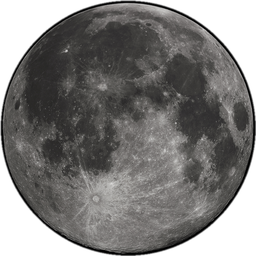
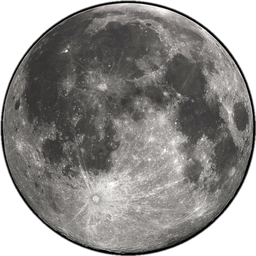
Astros: tamaños con realismo, Saturno con sus anillos, más estrellas
TAMAÑOS. Los cuerpos medían casi todos igual. Ahora el radio sigue una
escala logarítmica del radio real: de Plutón (1.188 km) al Sol (696.000)
hay 586 veces de diferencia, imposible a escala directa, pero el ORDEN sí
es el de verdad — Júpiter mayor que la Tierra, la Tierra mayor que Marte.

SATURNO. Su foto lleva los anillos, que ocupan el ancho mientras el cuerpo
es un tercio del alto: al encajarlo como los demás salía diminuto. Ahora se
dibuja en un recuadro 2,8× mayor, así el CUERPO mide como el resto y los
anillos sobresalen del disco, que es lo correcto. De paso se quitó el
recorte circular: todas las texturas traen alfa, y recortar era justo lo
que mutilaba a Saturno.

TIERRA Y LUNA. La Tierra tenía fondo negro (la creé desde un JPG) — ahora
recortada en círculo con borde suave y +45% de saturación. La Luna, +28%
de brillo. Bajados Urano, Venus y Plutón, que venían pálidos de más.

MÁS ESTRELLAS. Con `denseStars` cada figura se rodea de las estrellas
REALES de su zona (925 del catálogo Hipparcos a menos de 22° de la
eclíptica), sin unirlas: la figura se sigue leyendo y el sector deja de
verse vacío. No se inventan líneas — eso es lo que no se puede hacer a ojo.

Franjas: 0.069 por defecto, el valor elegido. La banda ancha queda como
opción, apagada.

natal-chart.js sube a ?v=22.

diff --git a/js/natal-chart.js b/js/natal-chart.js
@@ -136,6 +136,23 @@
     Jupiter:'Jupiter', Saturn:'Saturno', Uranus:'Urano', Neptune:'Neptuno',
     Pluto:'Pluton', Earth:'Tierra'
   };
+  // 2026-08-06 (pedido del usuario: "que tenga algo de realismo, aunque sea
+  // lo mínimo"): el radio real va de 1.188 km (Plutón) a 696.000 (Sol) —
+  // 586 veces. A escala directa el Sol tapaba la rueda y Plutón sería
+  // invisible. Con escala logarítmica el orden es el de verdad —Júpiter
+  // mayor que la Tierra, la Tierra mayor que Marte— dentro de un rango
+  // dibujable. Fracción de `size`.
+  var BODY_R = {
+    Sun:0.0275, Jupiter:0.0228, Saturn:0.0224, Uranus:0.0207, Neptune:0.0207,
+    Earth:0.0179, Venus:0.0178, Mars:0.0166, Mercury:0.0160, Moon:0.0153,
+    Pluto:0.0145
+  };
+  // Saturno se dibuja en un recuadro MAYOR que su disco: en la foto los
+  // anillos ocupan el ancho y el cuerpo solo ~1/3 del alto, así que al
+  // encajarlo como los demás el planeta salía diminuto. Con 2.8 el CUERPO
+  // mide como el resto y los anillos sobresalen, que es lo correcto.
+  var TEX_BOX = { Saturn: 2.8 };
+
   var _tex = {};           // nombre → HTMLImageElement
   var _texBase = '/assets/planets/';
   // Oyentes de "ya cargó una textura". El módulo NO se repinta solo: si lo
@@ -167,13 +184,12 @@
    * Dibuja la textura recortada en círculo. Las fotos vienen sobre fondo
    * negro (no transparente), así que sin el recorte se vería el cuadro.
    */
-  function drawTexturedBody(ctx, x, y, r, img) {
-    ctx.save();
-    ctx.beginPath();
-    ctx.arc(x, y, r, 0, TAU);
-    ctx.clip();
-    ctx.drawImage(img, x - r, y - r, r * 2, r * 2);
-    ctx.restore();
+  function drawTexturedBody(ctx, x, y, r, img, name) {
+    // Las texturas vienen con fondo transparente, así que no hace falta
+    // recortarlas en círculo — y recortar estropeaba a Saturno, cuyos
+    // anillos deben salirse del disco.
+    var box = r * (TEX_BOX[name] || 1);
+    ctx.drawImage(img, x - box, y - box, box * 2, box * 2);
   }
 
   function drawPlanetSphere(ctx, x, y, r, name, useReal) {
@@ -187,7 +203,7 @@
           ctx.fillStyle = g;
           ctx.beginPath(); ctx.arc(x, y, r * 2.1, 0, TAU); ctx.fill();
         }
-        drawTexturedBody(ctx, x, y, r, tx);
+        drawTexturedBody(ctx, x, y, r, tx, name);
         return;
       }
     }
@@ -467,7 +483,7 @@
       // opts.wedgeAlpha ajusta la intensidad de la franja "par"; la impar y
       // la del signo enfocado se derivan de ella para que la relación entre
       // las tres se mantenga al subir o bajar el tono.
-      var wA = (typeof opts.wedgeAlpha === 'number') ? opts.wedgeAlpha : 0.045;
+      var wA = (typeof opts.wedgeAlpha === 'number') ? opts.wedgeAlpha : 0.069;
       var wAodd   = wA / 3;
       var wAfocus = Math.min(wA * 2.2, 0.30);
       for (var fw = 0; fw < 12; fw++) {
@@ -817,6 +833,30 @@
           ctx.lineTo(pb.x, pb.y);
           ctx.stroke();
         }
+        // 2026-08-06 (pedido del usuario: "me gustaría verlas con más
+        // estrellas"): además de la figura, se salpican las estrellas REALES
+        // del entorno tomadas del catálogo Hipparcos (opts.denseStars), sin
+        // unirlas: la figura sigue leyéndose y el sector deja de verse vacío.
+        // No se inventan líneas — eso es justo lo que no se puede hacer a ojo.
+        if (opts.denseStars && chartData.zodiacFigures.extraStars) {
+          var ex = chartData.zodiacFigures.extraStars;
+          for (var xi = 0; xi < ex.length; xi++) {
+            var e = ex[xi];
+            var eLon = ((e[0] - cLon + 540) % 360) - 180;
+            var eLat = e[1] - cLat;
+            if (Math.abs(eLon * kx) > MAX_ARC / 2 + size * 0.012) continue;
+            if (Math.abs(eLat * ky) > MAX_RAD / 2 + size * 0.006) continue;
+            var er = bC + eLat * ky;
+            var epx = cx + rx * er + ux * eLon * kx;
+            var epy = cy + ry * er + uy * eLon * kx;
+            var erad = Math.max(0.5, (5.6 - e[2]) * (size / 1500));
+            ctx.fillStyle = esFoco ? 'rgba(255,250,235,0.55)' : 'rgba(255,250,235,0.3)';
+            ctx.beginPath();
+            ctx.arc(epx, epy, erad, 0, TAU);
+            ctx.fill();
+          }
+        }
+
         // Estrellas: el tamaño sigue la magnitud, como en el cielo
         for (var sj = 0; sj < order.length; sj++) {
           var pp = place(order[sj]);
@@ -1186,9 +1226,11 @@
 
         // Realistic planet sphere (radial gradient + halo + optional rings).
         // Sol/Luna get bigger radii because they're the attention anchors.
-        var sphereR = size * (p.name === 'Sun' ? 0.024
-                            : p.name === 'Moon' ? 0.022
-                            : 0.019);
+        var sphereR = size * (REAL_BODIES && BODY_R[p.name] !== undefined
+                            ? BODY_R[p.name]
+                            : (p.name === 'Sun' ? 0.024
+                             : p.name === 'Moon' ? 0.022
+                             : 0.019));
 
         // 2026-04-29 sign-focus: ruler planet of the focused sign gets a
         // bright outer halo ring before the sphere is drawn — viewer's
@@ -1480,7 +1522,7 @@
       // (Blue Marble). Si aún no cargó, cae al dibujo de siempre.
       var _earthTex = REAL_BODIES ? planetTexture('Earth') : null;
       if (_earthTex) {
-        drawTexturedBody(ctx, cx, cy, earthR, _earthTex);
+        drawTexturedBody(ctx, cx, cy, earthR, _earthTex, 'Earth');
       } else {
 
       // Earth sphere — blue oceans with warm continents

diff --git a/_preview-rueda.html b/_preview-rueda.html
@@ -34,12 +34,13 @@ no toca el pipeline ni genera archivos.</p>
 <div class="controls">
   <label><input type="checkbox" id="wedges" checked> Franjas hasta la Tierra</label>
   <label>Intensidad
-    <input type="range" id="alpha" min="0" max="120" value="28">
+    <input type="range" id="alpha" min="0" max="120" value="69">
     <output id="alphaOut">0.045</output>
   </label>
   <label><input type="checkbox" id="producto"> Ver como sale el PNG del producto</label>
   <label><input type="checkbox" id="ancha"> <b>Banda ancha</b> (tu boceto)</label>
   <label><input type="checkbox" id="reales" checked> <b>Planetas reales</b> (fotos NASA)</label>
+  <label><input type="checkbox" id="densas" checked> <b>Más estrellas</b> (Hipparcos)</label>
   <label>Signo resaltado
     <select id="focus">
       <option value="">— ninguno —</option>
@@ -108,6 +109,7 @@ const focusEl  = document.getElementById('focus');
 const prodEl   = document.getElementById('producto');
 const anchaEl  = document.getElementById('ancha');
 const realesEl = document.getElementById('reales');
+const densasEl = document.getElementById('densas');
 
 // Las constelaciones reales dentro de la banda salen solo si se pasan los
 // catálogos; el renderizador ya sabe proyectarlas (usa sky-map.js para la
@@ -116,10 +118,20 @@ Promise.all([
   libsReady,
   fetch('/data/constellations_zodiac.json').then(r => r.json()),
   fetch('/data/stars_zodiac.json').then(r => r.json()),
-]).then(([, zc, zs]) => {
+  fetch('/data/stars-full.json').then(r => r.json()).catch(() => ({stars:[]})),
+]).then(([, zc, zs, full]) => {
   // Las 12 figuras curadas (las mismas del video), normalizadas por el
   // renderizador para que las doce ocupen lo mismo.
-  CHART.zodiacFigures = { constellations: zc.constellations, stars: zs.stars };
+  // Estrellas de relleno: se convierten UNA vez a coordenadas eclípticas
+  // [lon, lat, magnitud] — el renderizador solo las coloca.
+  const e2e = LuzEstelar.SkyMap.equatorialToEcliptic;
+  const extra = (full.stars || [])
+    .map(st => { const e = e2e(st[2], st[3]); return [e.lon, e.lat, st[4]]; })
+    .filter(e => Math.abs(e[1]) < 22);
+  CHART.zodiacFigures = {
+    constellations: zc.constellations, stars: zs.stars, extraStars: extra,
+  };
+  console.log('estrellas de relleno cerca de la eclíptica:', extra.length);
   draw();
 });
 
@@ -136,6 +148,7 @@ function draw(){
     signFocus: focusEl.value || null,
     wideConstellations: anchaEl.checked,
     realPlanets: realesEl.checked,
+    denseStars: densasEl.checked,
     onTextureLoad: draw,   // redibuja con las medidas de ahora
   };
   LuzEstelar.NatalChart.render(document.getElementById('w-page'), CHART, base);
@@ -159,7 +172,7 @@ function draw(){
   LuzEstelar.NatalChart.render(document.getElementById('w-video'), CHART, vid);
 }
 
-[wedgesEl, alphaEl, focusEl, prodEl, anchaEl, realesEl].forEach(el => el.addEventListener('input', draw));
+[wedgesEl, alphaEl, focusEl, prodEl, anchaEl, realesEl, densasEl].forEach(el => el.addEventListener('input', draw));
 window.addEventListener('resize', draw);
 </script>
 </body>

diff --git a/sw.js b/sw.js
@@ -185,7 +185,7 @@
 // Add Profile sheet 400ms after hydrate — Compat's "Agregar otro
 // perfil" CTA now uses it, collapsing a 3-tap flow (Compat → Inicio
 // → scroll → + Agregar perfil) to 1 tap. (3) Scripts bumped:
-// transits.js?v=2, natal-chart.js?v=21.
+// transits.js?v=2, natal-chart.js?v=22.
 // v58 → v59 (Apr 19 p15.1): ROOT CAUSE of "no puedo guardar perfil"
 // finally found. #le-tabs (the PWA bottom-tabs bar) is fixed-positioned
 // at z-index 9999 — the Add Profile modal sheet was at z-index 81.
@@ -331,7 +331,7 @@
 // v82 → v83 (Ago 6): nueva /en/offline.html. La pagina de respaldo sin
 // conexion era unica y estaba en espanol, asi que un lector bajo /en/ veia
 // "Sin conexion". Ahora la rama de navegacion elige segun la ruta.
-const CACHE_NAME = 'luzestelar-v90';
+const CACHE_NAME = 'luzestelar-v91';
 const OFFLINE_URL = '/offline.html';
 // English readers used to fall back to the Spanish offline page — it is the
 // fallback for the whole site, so /en/ visitors got "Sin conexión".

diff --git a/compatibilidad-personal.html b/compatibilidad-personal.html
@@ -1057,7 +1057,7 @@ body{
      .findAspects inside renderResults(). -->
 <script src="/js/transits.js?v=3"></script>
 <script src="/js/astro-glyphs.js?v=2"></script>
-<script src="/js/natal-chart.js?v=21"></script>
+<script src="/js/natal-chart.js?v=22"></script>
 <script src="/js/icons.js" defer></script>
 <script src="/js/toast.js" defer></script>
 <script src="/js/sw-update.js" defer></script>

diff --git a/en/compatibility-personal.html b/en/compatibility-personal.html
@@ -1057,7 +1057,7 @@ body{
      .findAspects inside renderResults(). -->
 <script src="/js/transits.js?v=3"></script>
 <script src="/js/astro-glyphs.js?v=2"></script>
-<script src="/js/natal-chart.js?v=21"></script>
+<script src="/js/natal-chart.js?v=22"></script>
 <script src="/js/icons.js" defer></script>
 <script src="/js/toast.js" defer></script>
 <script src="/js/sw-update.js" defer></script>

diff --git a/mi-dia.html b/mi-dia.html
@@ -980,7 +980,7 @@ body.modal-open #le-tabs{display:none !important}
      device instead of waiting for the cache window to expire. -->
 <script src="/js/transits.js?v=3"></script>
 <script src="/js/astro-glyphs.js?v=2"></script>
-<script src="/js/natal-chart.js?v=21"></script>
+<script src="/js/natal-chart.js?v=22"></script>
 <script src="/js/share-card.js?v=10"></script>
 <script>
 (function(){

diff --git a/en/my-day.html b/en/my-day.html
@@ -770,7 +770,7 @@ body.modal-open #le-tabs{display:none !important}
 <script src="/js/cross-cultural.js"></script>
 <script src="/js/transits.js?v=3"></script>
 <script src="/js/astro-glyphs.js?v=2"></script>
-<script src="/js/natal-chart.js?v=21"></script>
+<script src="/js/natal-chart.js?v=22"></script>
 <script src="/js/share-card.js?v=10"></script>
 <script>
 (function(){
